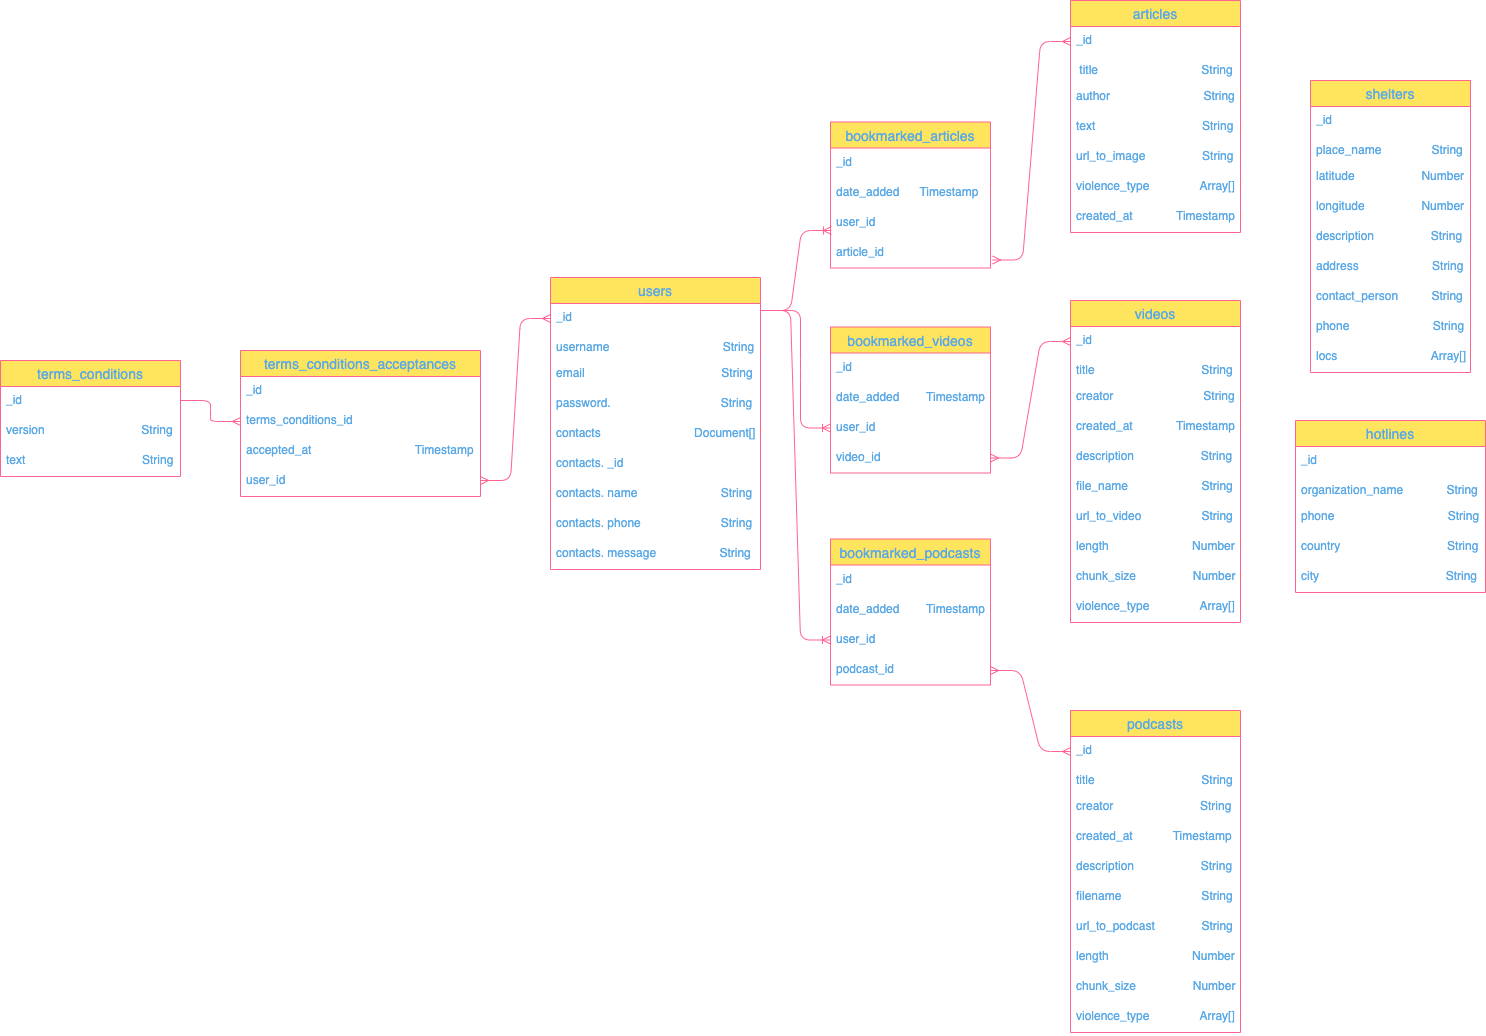
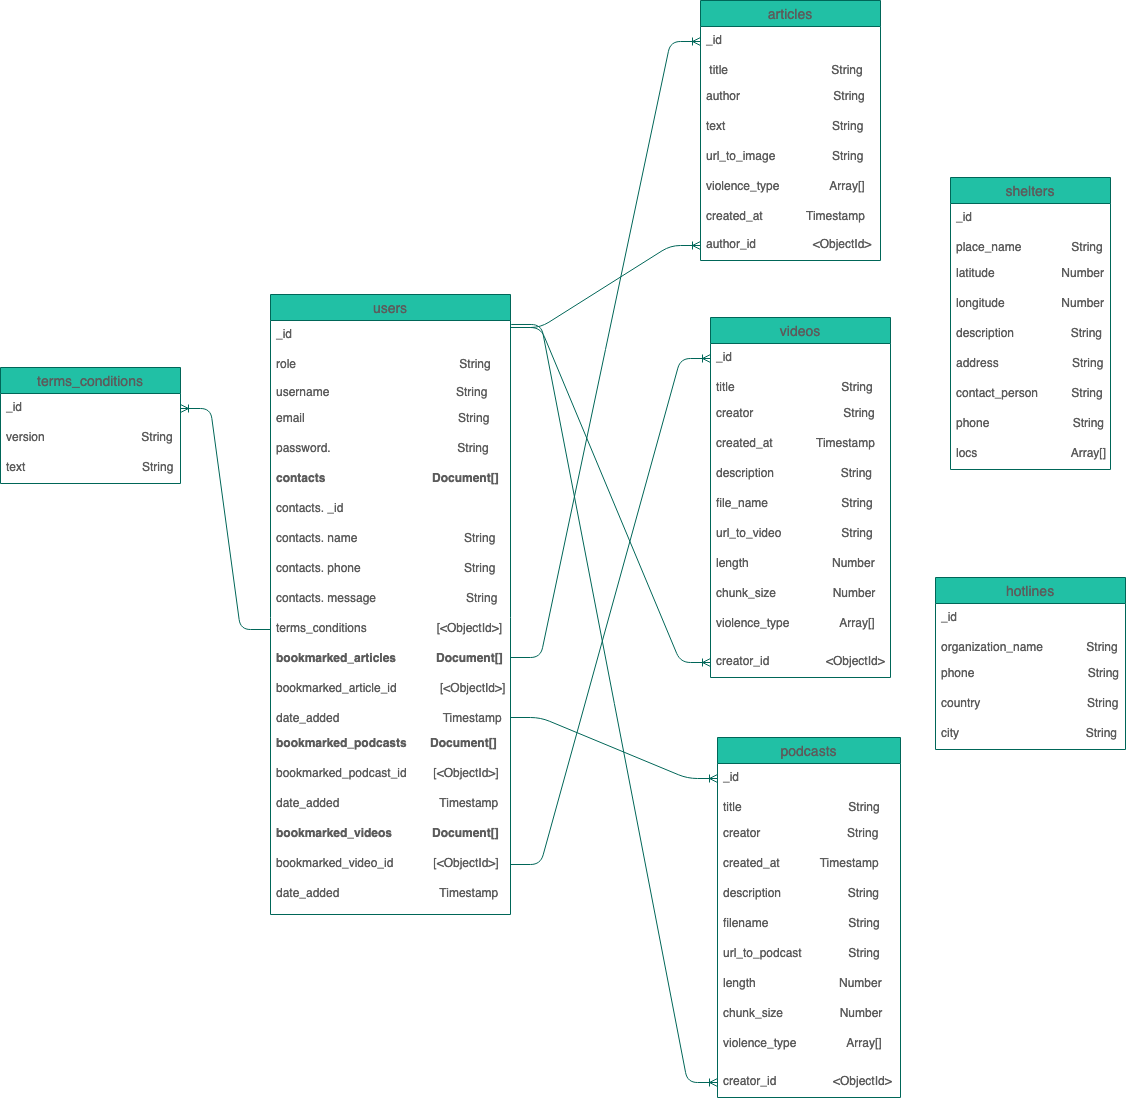
update readme

Changed region(s): [[0.0, 0.0, 1.0, 0.834], [0.6217, 0.6486, 0.8393, 1.0], [0.4973, 0.6486, 0.5284, 0.6795]]

diff --git a/README.md b/README.md
@@ -50,15 +50,16 @@ The main reasons for choosing MongoDB in POOL project are as below:
 
 ![DB Model](db_model.png)
 
-Users can perform CRUD operations on contacts and bookmarks. Other data such as articles, videos and podcasts are read only.
+Basic users can perform CRUD operations on contacts and bookmarks. Authorized user with editor or admin role can perform CRUD operations on articles, videos, and podcasts.
 
 Contacts document is embedded in the users collection for optimal querying. Since a user can have maximum 2 emergency contacts (one-to-few relationship), the document size would not exceed the limit.
 
-A user can add as many bookmarks as they want (one-to-many relationship). As a lot of data is updated frequently in the bookmarks collection, referencing was chosen for better performance.
-
 Each article, video, podcast has one or few violence type tags. The number of violence types are limited, thus another collection is not needed.
 
-## API 
+## API
+
+We use Swagger to document our APIs.
+http://pool-api-mobile.herokuapp.com/api-docs/
 
 ## Setup
 
@@ -95,11 +96,13 @@ yarn dev
 5. Open http://localhost:3001/api to view it in the browser.
 
 6. Before merging to master
+
 - check lint and prettier rules
 
 ```s
 yarn lint
 ```
+
 - run tests
 
 ```s
@@ -193,41 +196,8 @@ heroku build:cancel
 
 ---
 
-## Routing for REST API
-
-API endpoints are set up on the server side for the client to be able to communicate with the database. The client can make a request to this route. On this route with a callback function, the server makes a request to the database and gets a response. Inside the callback, you can query the database by using different Mongoose helper functions.
-
-To query specific data with conditions, the client should specify the particular variable that needs to be fetched in the URL. This route parameter is passed onto the server inside req.params. With this parameter server looks for the matching data in the db. In order to perform this, the name of the variable should be assigned with a colon in the respective backend API endpoint.
-
-Example backend code:
-
-```
-router
-  .route('/users/:username/contacts')
-   /* This endpoint is for users who would like to add, edit and delete their
-   emergency contact in the app. :username is retrieved from a list of users
-   of the app */
-
-	.get((req, res) => {
-    Contact.findOne(
-      { username: req.params.username }
-   ...
-  })
-```
-
-Example frontend code:
-
-```
-const getContacts = async () => {
-    try {
-      const response = await appApiClient.get(
-        `/users/${username}/contacts`);
-    ...
-  };
-```
-
 ## Authors of the project:
 
-- Soyoon Choi: Update user, CRUD Contacts of user
-- Irina Baeva: Delete /Update user, Create /Read Shelters and Hotlines
-- Behnaz Derakhshani: Create /Read user, Create /Read Articles
+- Soyoon Choi
+- Irina Baeva
+- Behnaz Derakhshani
